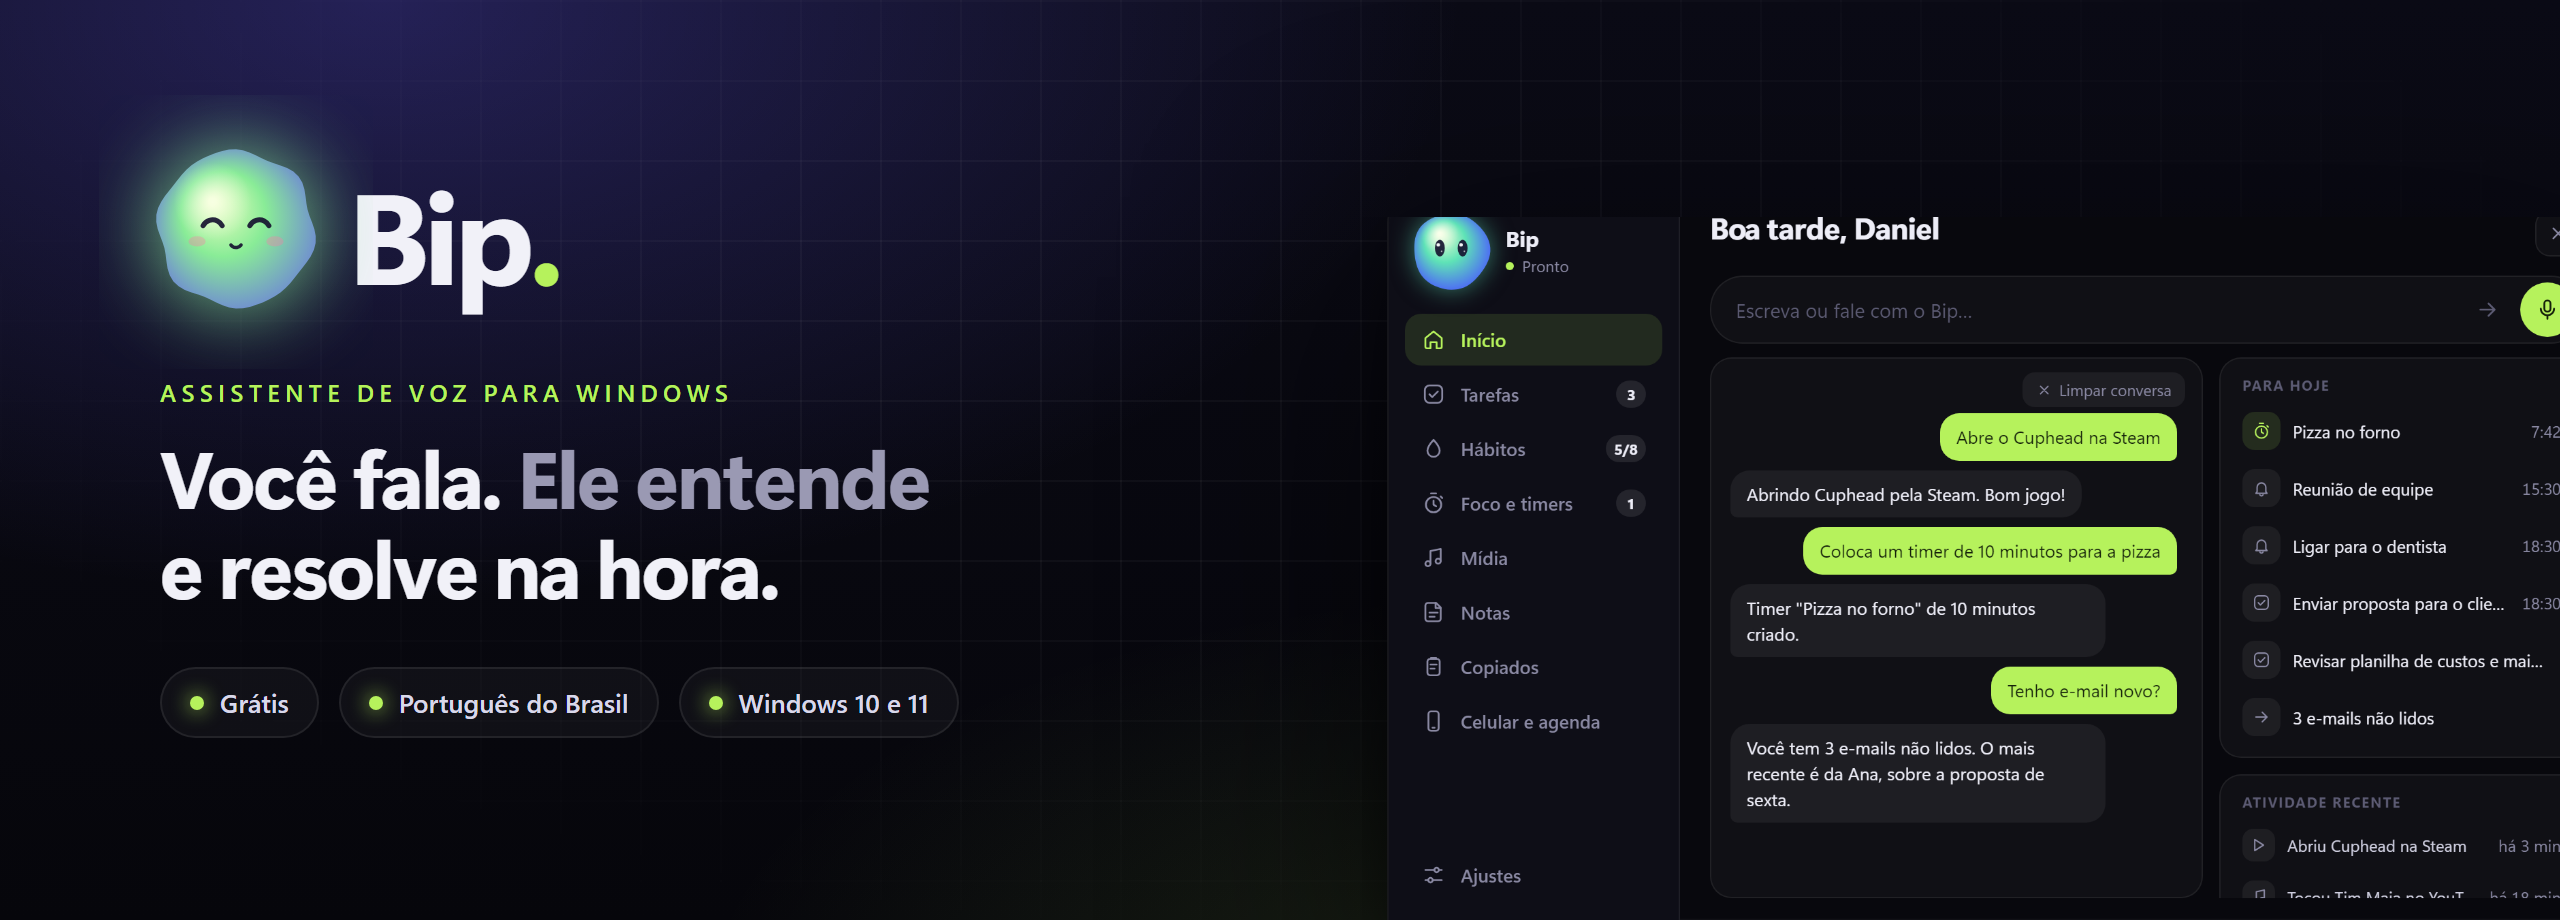
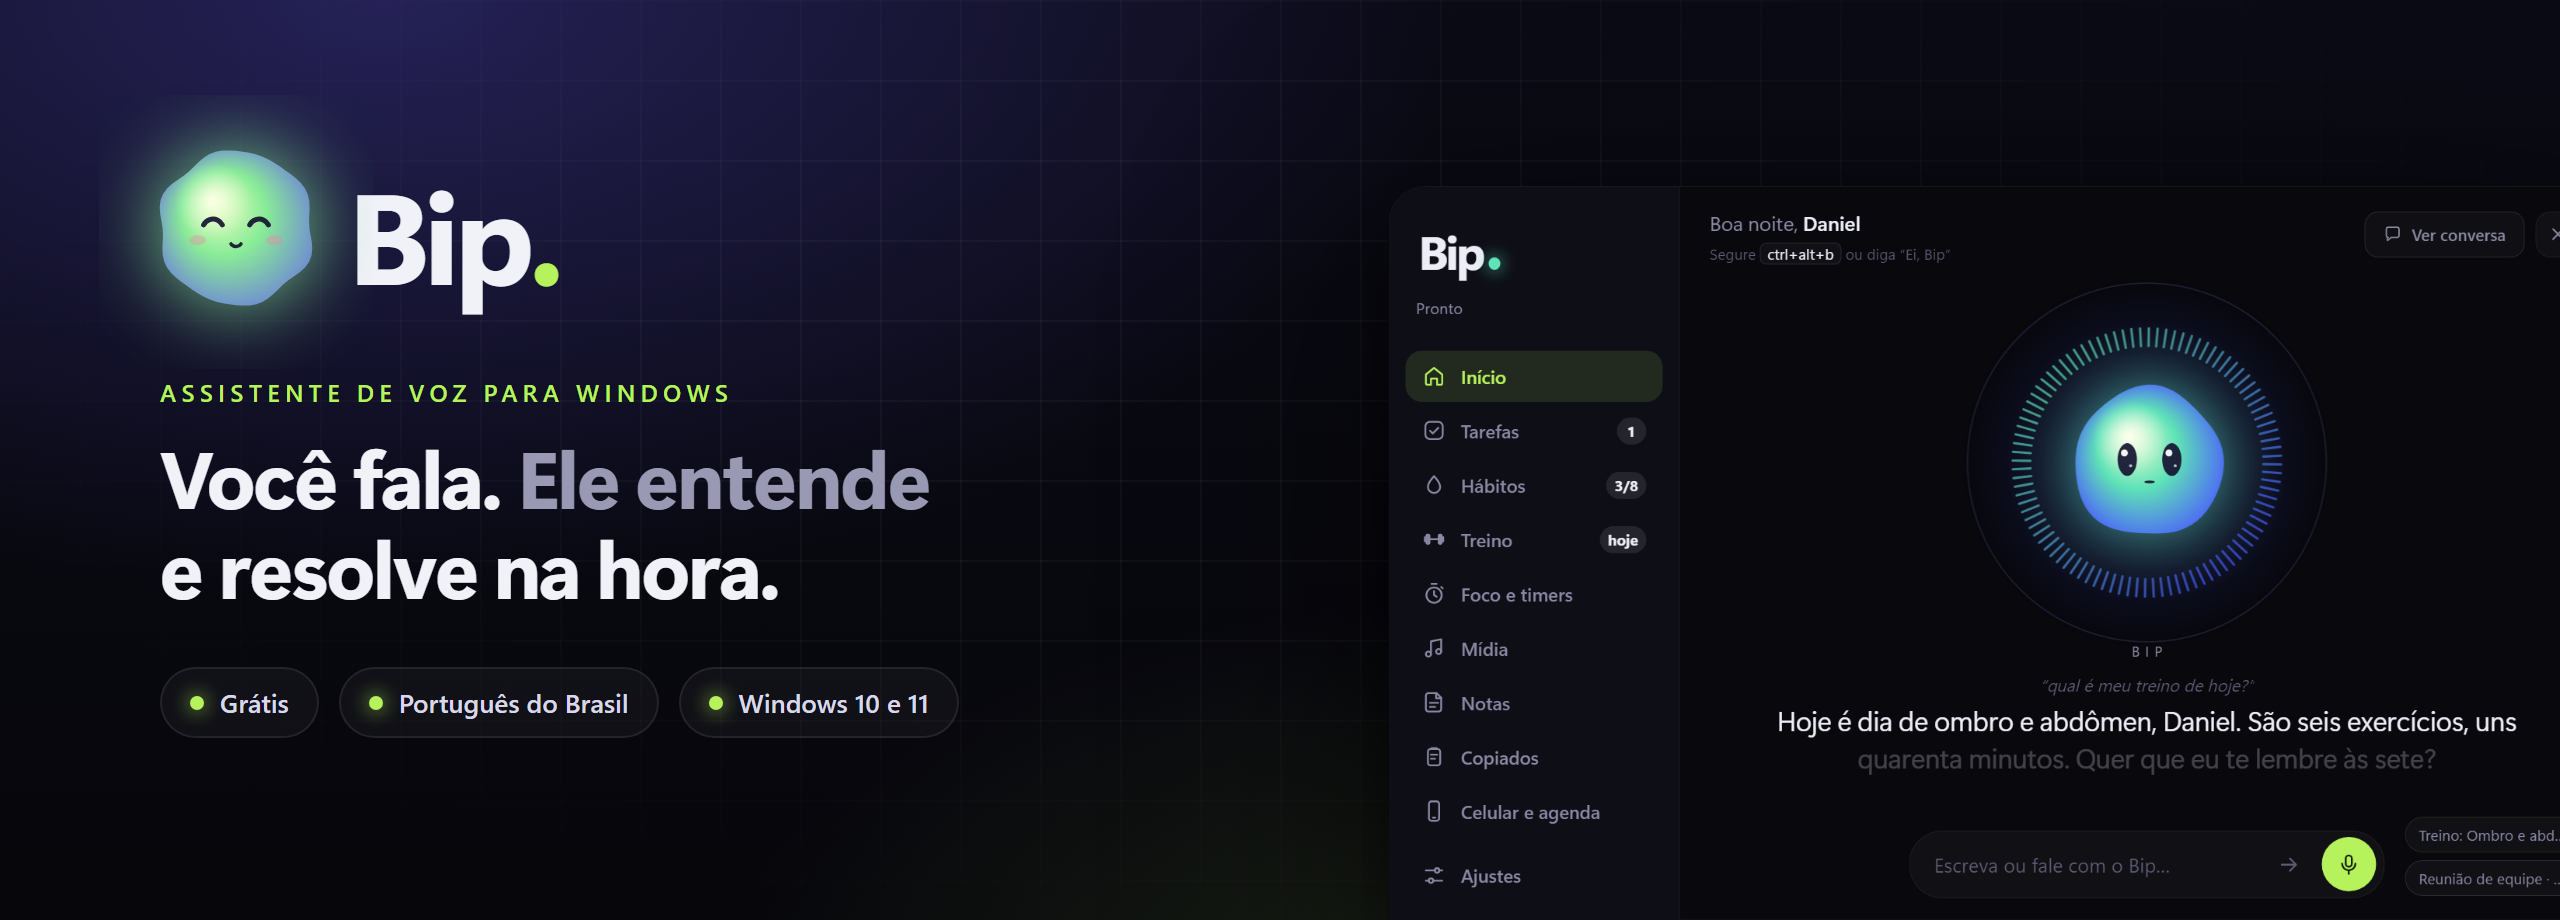
Página de download: imagens da interface nova e novidades da versão 1.5.9

diff --git a/README.md b/README.md
@@ -43,18 +43,19 @@ O Bip é um assistente de voz para Windows, em português do Brasil. Ele fica en
 | 🧩 | **Rotinas** | “Modo trabalho”, “modo jogo” ou “cria a rotina estudo: abre o Notion e toca lofi” |
 | 📅 | **Agenda e resumo do dia** | “Marca dentista sexta às 15h”, “bom dia” (clima, compromissos, tarefas e e-mails) |
 | 🖥 | **Controle do PC** | “Modo escuro”, “tira um print”, “o que está escrito na minha tela?”, “reinicia o PC” |
-| 🎧 | **Spotify** | “Toca minha playlist de treino”, “curte essa música” (com a conta conectada) |
+| 🎧 | **Música certa, no seu player** | Corrige nomes mal ouvidos (“team maia” vira Tim Maia) e toca no YouTube, YouTube Music ou Spotify |
+| ⌨ | **Digita para você** | “Digita bom dia a todos”, “pesquisa receita de bolo aqui” (escreve onde o cursor está) |
 | 🏋 | **Treino** | Aba com o treino de cada dia da semana: “qual meu treino hoje?”, “treinei”, “segunda é peito e tríceps” |
 | 🗣 | **Vozes humanas** | Francisca e Antonio sem configurar nada, ou mais de 20 vozes brasileiras do Azure (grátis, 500 mil caracteres por mês) |
 | ☀ | **Bom dia ao ligar o PC** | Abre junto com o Windows e diz “Bom dia”, “Boa tarde” ou “Boa noite” com o seu nome |
 
 ## Telas
 
-<p align="center"><img src=".github/assets/s-home.png" alt="Tela de início do Bip" width="100%"></p>
-<p align="center"><img src=".github/assets/s-tasks.png" alt="Tarefas" width="100%"></p>
-<p align="center"><img src=".github/assets/s-timers.png" alt="Foco e timers" width="100%"></p>
+<p align="center"><img src=".github/assets/s-home.png" alt="Início: o Bip no centro, com o anel de ondas e a resposta" width="100%"></p>
+<p align="center"><img src=".github/assets/s-chat.png" alt="Conversa no painel lateral" width="100%"></p>
+<p align="center"><img src=".github/assets/s-treino.png" alt="Treino da semana" width="100%"></p>
+<p align="center"><img src=".github/assets/s-voices.png" alt="Galeria de vozes humanas" width="100%"></p>
 <p align="center"><img src=".github/assets/s-media.png" alt="Mídia" width="100%"></p>
-<p align="center"><img src=".github/assets/s-groq.png" alt="Ajustes: entender melhor com o Groq" width="100%"></p>
 
 ## Instalação
 
